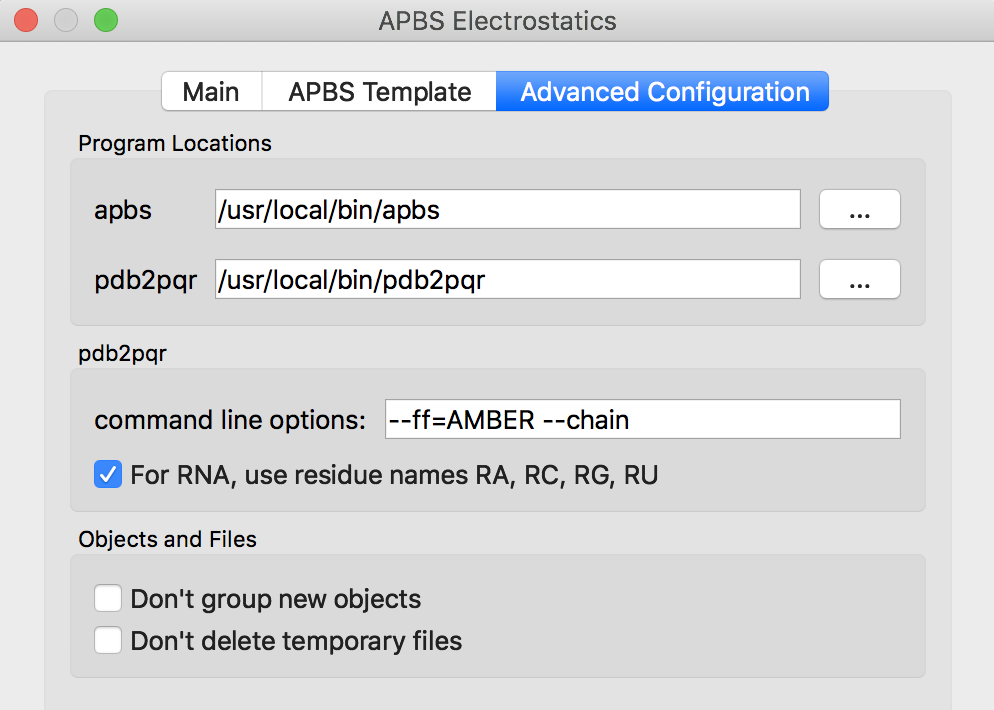
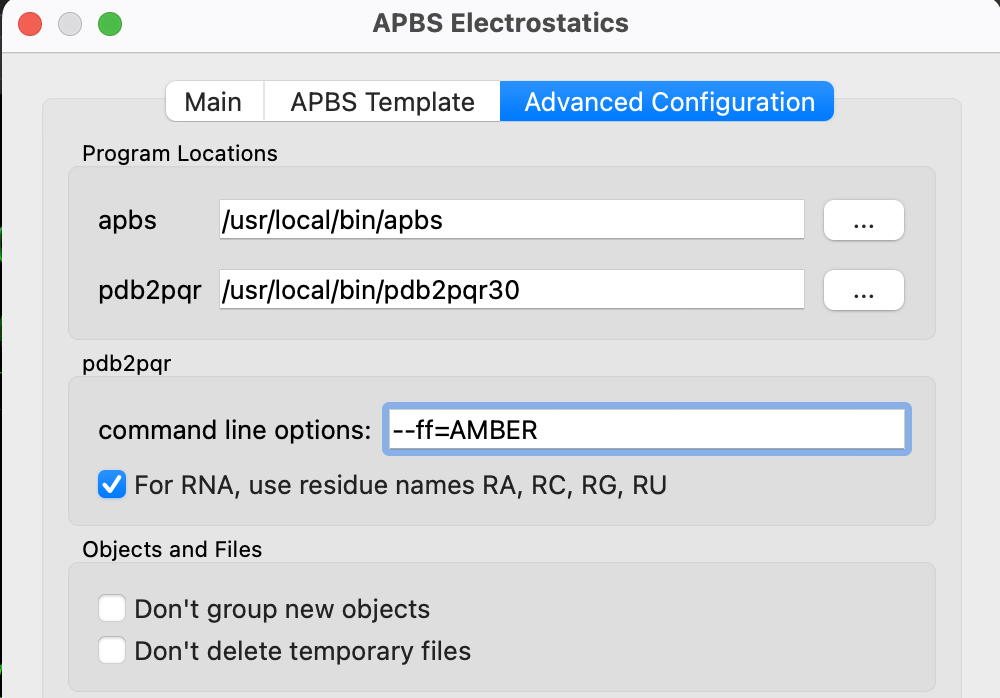
update APBS

diff --git a/src/ch05/apbs.md b/src/ch05/apbs.md
@@ -151,7 +151,7 @@ rm -rf ~/pymolplugin
 
 <img src="./image/apbs3.png" title="APBSの表示例">
 
-HomebrewでAPBSとPDB2PQRをインストールした場合は、上図のようにapbsの欄を`/usr/local/bin/apbs`にし、pdb2pqrの欄を`/usr/local/bin/pdb2pqr`に設定します。もしソースコードからインストールした場合にはこの限りではありませんので、適切なapbs, pdb2pqrバイナリ本体へのpathを指定しましょう。
+HomebrewでAPBSとPDB2PQRをインストールした場合は、上図のようにapbsの欄を`/usr/local/bin/apbs`にし、pdb2pqrの欄を`/usr/local/bin/pdb2pqr30`に設定します（※M1以降のMacの方はそれぞれ`/opt/homebrew/bin/apbs`と`/opt/homebrew/bin/pdb2pqr30`）。もしソースコードからインストールした場合にはこの限りではありませんので、適切なapbs, pdb2pqrバイナリ本体へのpathを指定しましょう。
 
 他の部分は特に変更する必要はありません。これで右下のrunを押せばめでたくAPBSが動くはずです。
 
